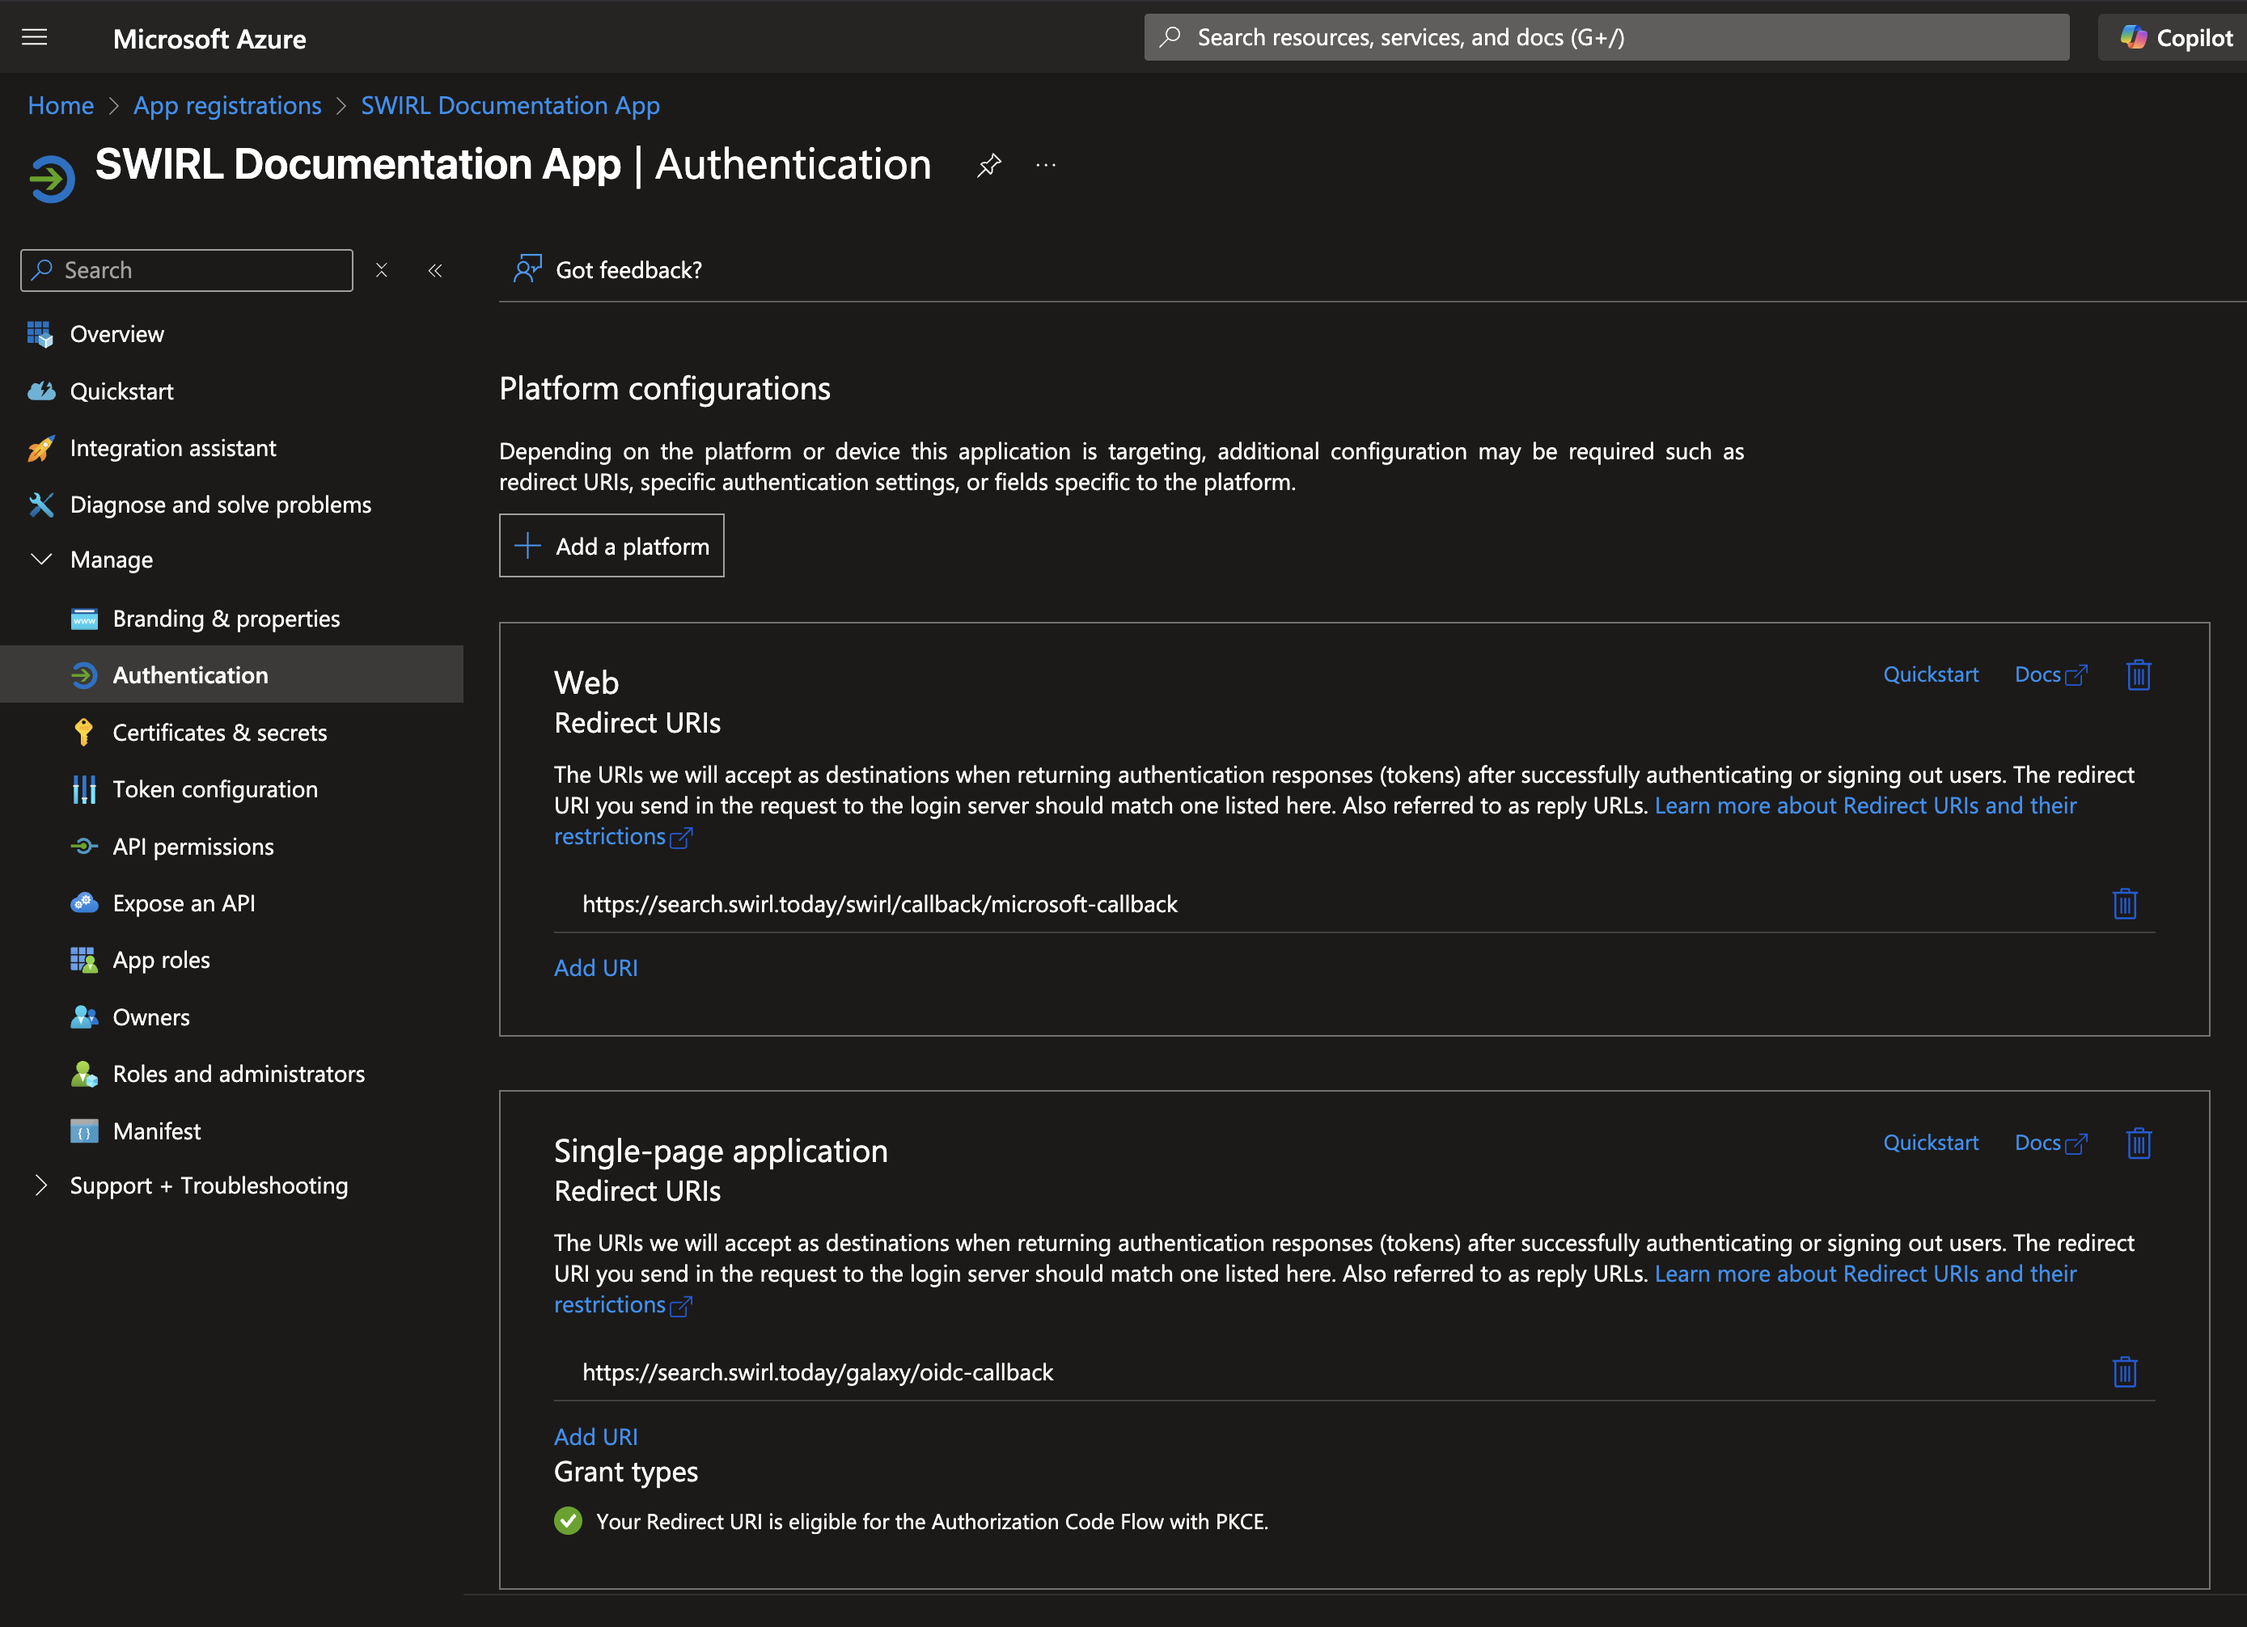
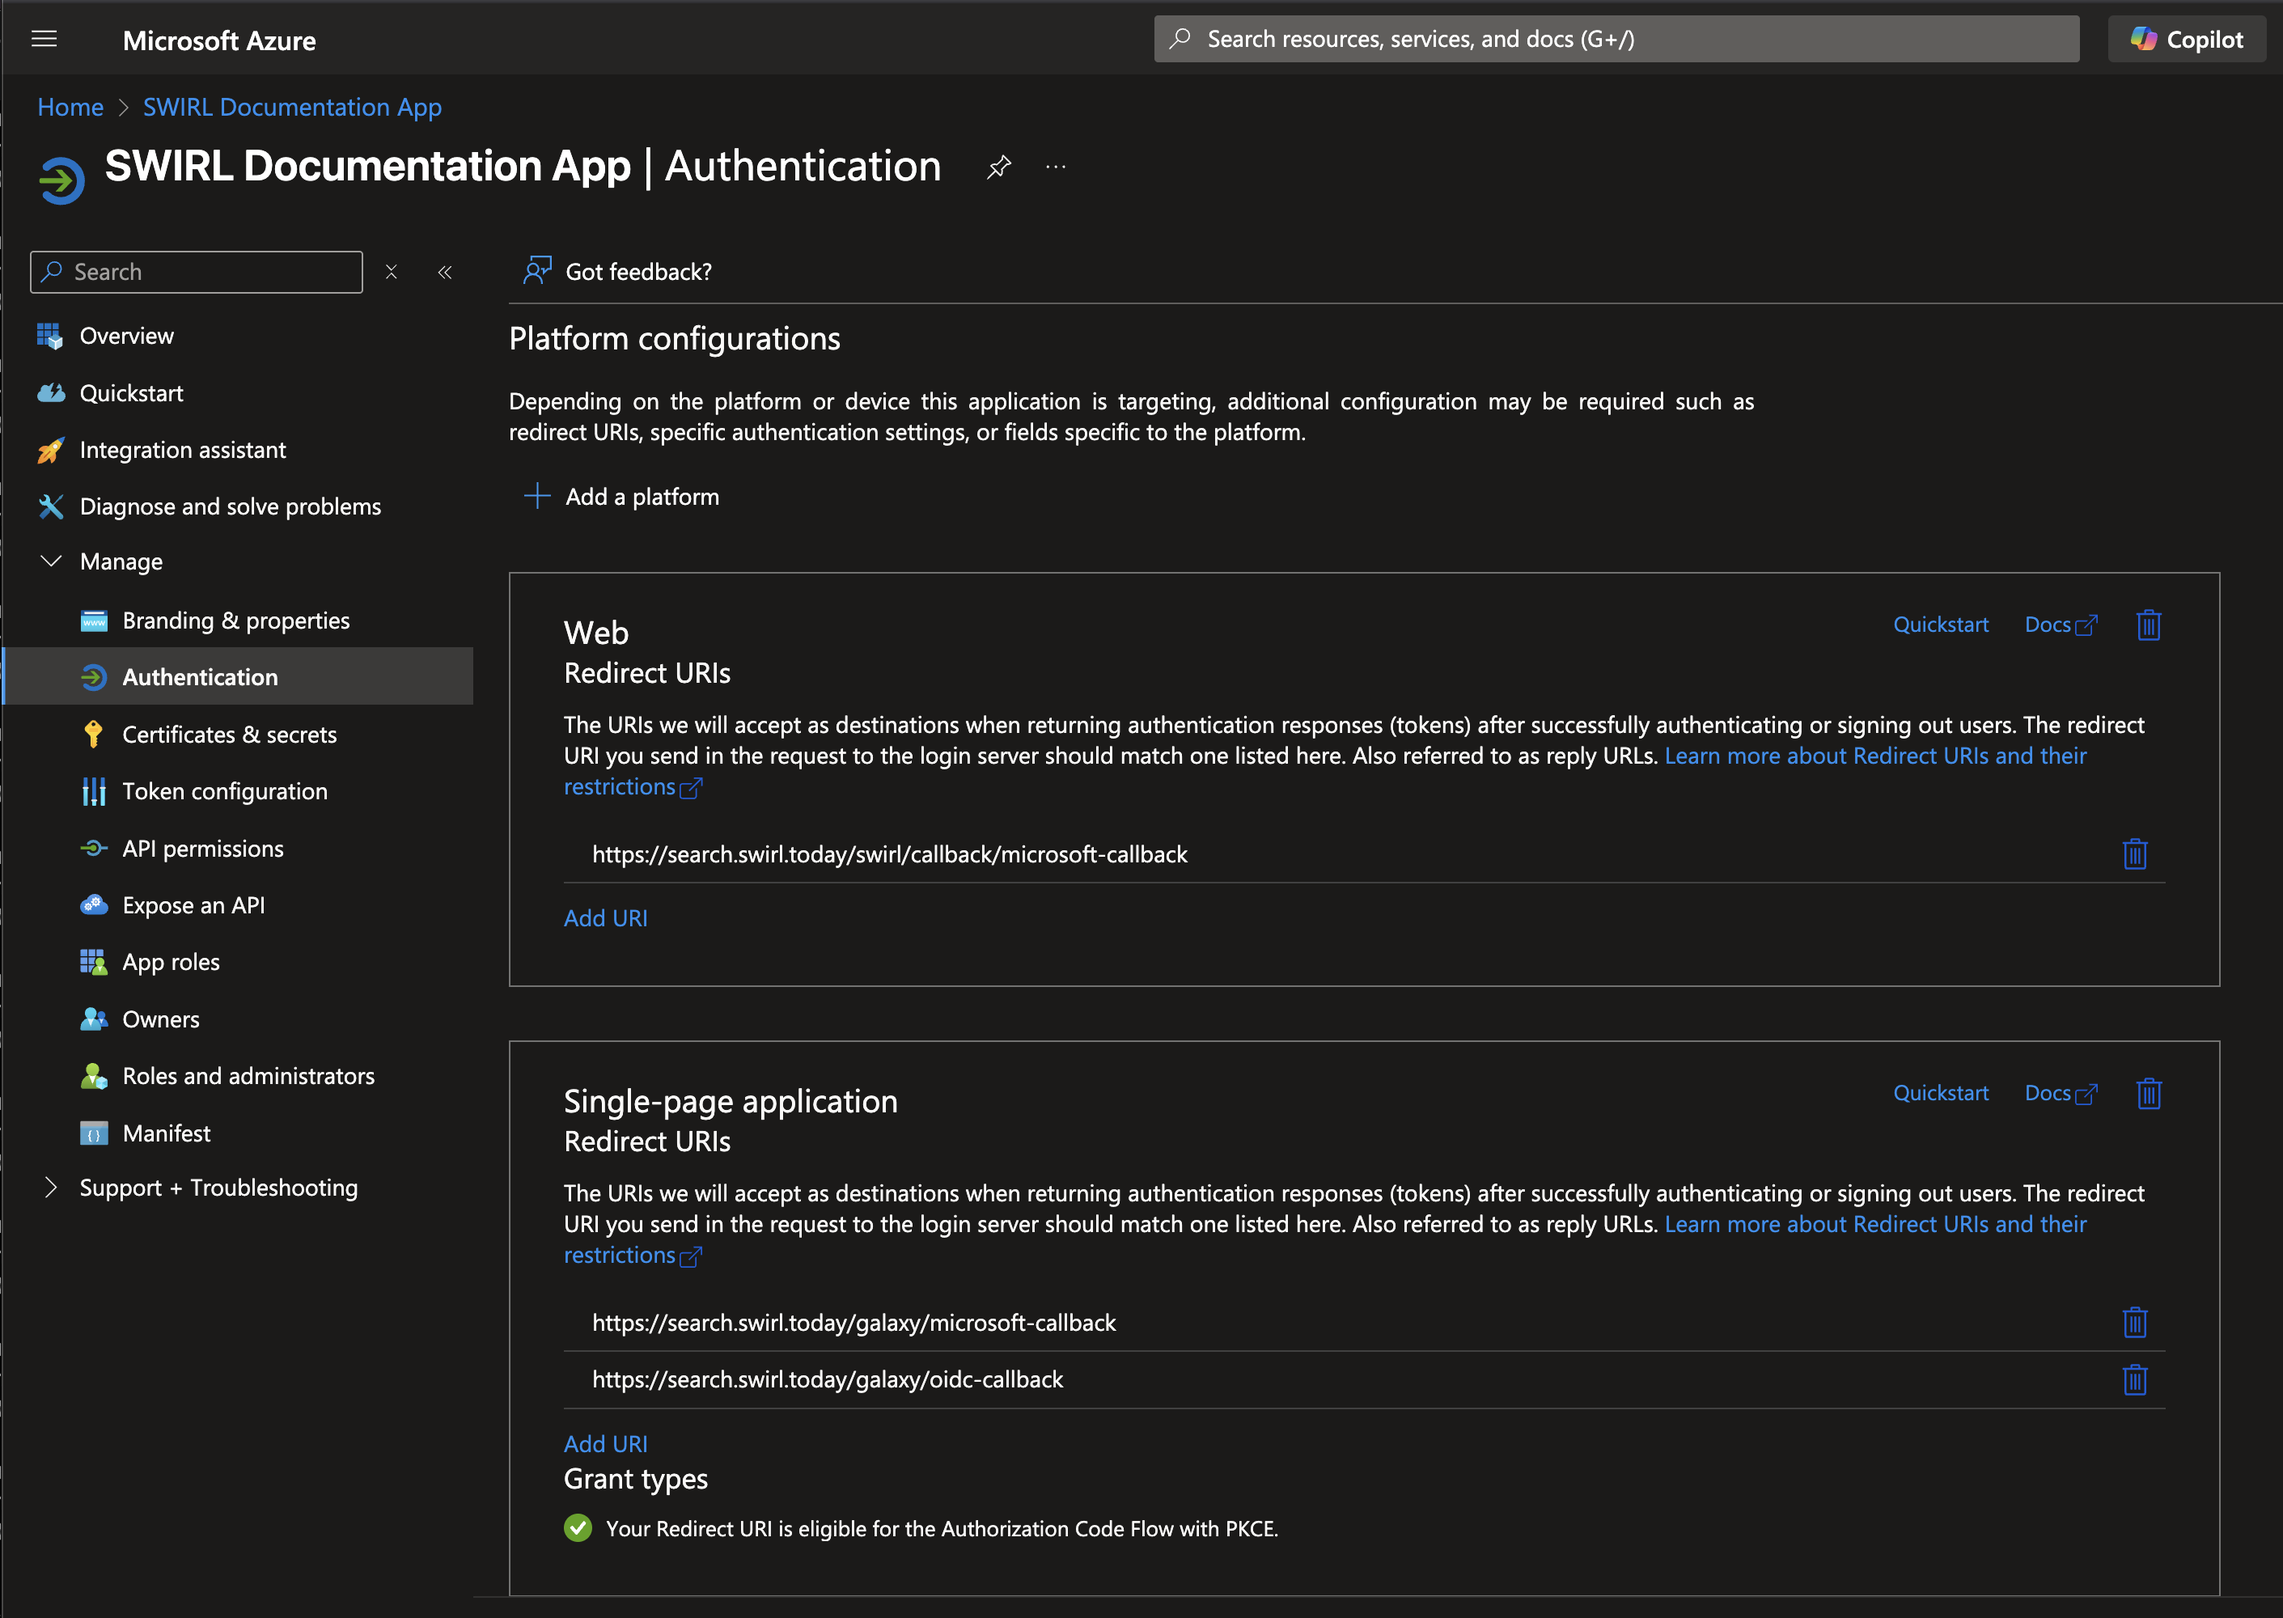
updates to app reg and OAuth2 sections of M365 Guide, including image updates

diff --git a/docs/M365-Guide.md b/docs/M365-Guide.md
@@ -39,11 +39,11 @@ Ensure you have the following details about your **SWIRL deployment**:
 Example:  
 If your deployment is **`search.swirl.today`**, the `swirl-host` is **`search.swirl.today`**.
 
-**HTTPS Requirement**
+## HTTPS Requirement
 
-To use **OIDC** and **OAuth2**, your deployment **must use** `https`, except when using `localhost`, where `http://` is allowed.  
+To use **OIDC** and **OAuth2** with Microsoft, your deployment **must use** `https` (except when using `localhost`, where `http://` is allowed).
 
-**Single Page Applications and Web Protocols** require `https://` for fully qualified domains.
+Single-Page Applications and Web Protocols in Azure Applications require `https://` for fully qualified domains.
 
 ## Getting Started
 
@@ -53,7 +53,7 @@ To use **OIDC** and **OAuth2**, your deployment **must use** `https`, except whe
 
    ![Azure find app registration](images/Azure_find_app_reg.png)
 
-## Create the New App
+## Create the New Application
 
 1. On the **"App registrations"** page, click **`New registration`**:
 
@@ -64,26 +64,40 @@ To use **OIDC** and **OAuth2**, your deployment **must use** `https`, except whe
    - **Name** → Enter a name for the App (e.g., **`SWIRL Documentation App`**).
    - **Supported account types** → Select:  
      `Accounts in this organizational directory only (MSFT only - Single tenant)`.
-   - **Add a "Redirect URI"** for a Web application:
+
+3. **For the SWIRL Enterprise Edition:**
+   - Add a **Redirect URI (optional)** value for a "Web" application:
      - **Platform**: `Web`
      - **Value**: `https://<swirl-host>[:<swirl-port>]/swirl/callback/microsoft-callback`
 
-3. Click **`Register`** to create the application.
-
    ![Azure App Registration](images/Azure_app_registration.png)
 
-## Configure Redirect URIs for a Single Page Application
+4. Click **`Register`** to create the application.
+
+## Configure Redirect URI(s) for a Single-Page Application
 
 1. Navigate to the **"Authentication"** page and click **`Add a platform`** and select **"Single Page Application"**:
 
    ![Overview, Authentication option](images/Overview_to_authentication.png)
-   ![Single Page Application Protocol](images/Add_platform_single_page.png)
+   ![Single-Page Application Protocol](images/Add_platform_single_page.png)
 
-2. **Add the OIDC Callback URL**:
+2. **For SWIRL Community edition:**
+   - Add the OAuth2 callback URL:
+      - Click `Add URI`
+      - **Value**: `https://<swirl-host>[:<swirl-port>]/galaxy/microsoft-callback`
+   - Click `Configure` to add the URI.
+
+   ![Add Community OAuth Callback URL](images/OAuth-callback-Community.png)
+
+3. **Optional, for both Community and Enterprise Editions:**
+   - If you plan to configure "Login with Microsoft", add the OIDC Callback URL:
+      - Click `Add URI`
+      - **Value**: `https://<swirl-host>[:<swirl-port>]/galaxy/oidc-callback`
+   - Click `Save` to add the URI.
 
    ![Add OIDC Callback URL](images/Add_OIDC_Callback.png)
 
-3. Return to the **Authentication** screen:
+4. Return to the **Authentication** screen:
 
    ![Return to Overview 1](images/Return_to_Overview_1.png)
 
@@ -165,7 +179,7 @@ To enable OAuth2 content search for M365 in the SWIRL Community Edition, locate 
 
 ![Azure App Values](images/Azure_app_values.png)
 
-Open the `static/api/config/default` file within your SWIRL home directory in an editor and locate the `msalConfig` section:
+From the SWIRL home directory, open the `static/api/config/default` file within in an editor and locate the `msalConfig` section:
 
 ```
   "msalConfig": {
@@ -177,14 +191,14 @@ Open the `static/api/config/default` file within your SWIRL home directory in an
   },
 ```
 
-Update this section with the values from your Azure App Registration and the host and optional port of the SWIRL application.  Those values should be added as follows:
+Update this section with the values from your Azure App Registration and the host and (optional) port of the SWIRL application.  Those values should be added as follows:
 
 ```
   "msalConfig": {
     "auth": {
       "clientId": "<application-id>",
       "authority": "https://login.microsoftonline.com/<tenant-id>",
-      "redirectUri": "http(s)://<swirl-host>:<swirl-port>/galaxy/microsoft-callback"
+      "redirectUri": "http(s)://<swirl-host>(:<swirl-port>)/galaxy/microsoft-callback"
     }
   },
 ```
@@ -219,13 +233,10 @@ Example configuration for SWIRL running behind a gateway:
 python swirl.py restart
 ```
 
-Proceed to [Activate the M365 SearchProviders](#activate-the-microsoft-365-searchproviders)
+Proceed to [Activate the M365 SearchProviders](#activate-the-microsoft-365-searchproviders) for Community Edition.
 
 
 ## Enterprise Edition
-
-{: .warning }
-This section applies to the **SWIRL Enterprise Edition only**.
 
 To enable OAuth2 content search for M365 in the SWIRL Enterprise edition, locate and copy the following values from your new Azure App Registration:
 - **`<application-id>`**
@@ -312,7 +323,7 @@ Example Authenticator configuration for SWIRL running locally:
 
 Click the `PUT` button to save the Authenticator.
 
-Proceed to [Activate the M365 SearchProviders](#activate-the-microsoft-365-searchproviders)
+Proceed to [Activate the M365 SearchProviders](#activate-the-microsoft-365-searchproviders) for Enterprise Edition.
 
 # Configuring OIDC With Microsoft
 
